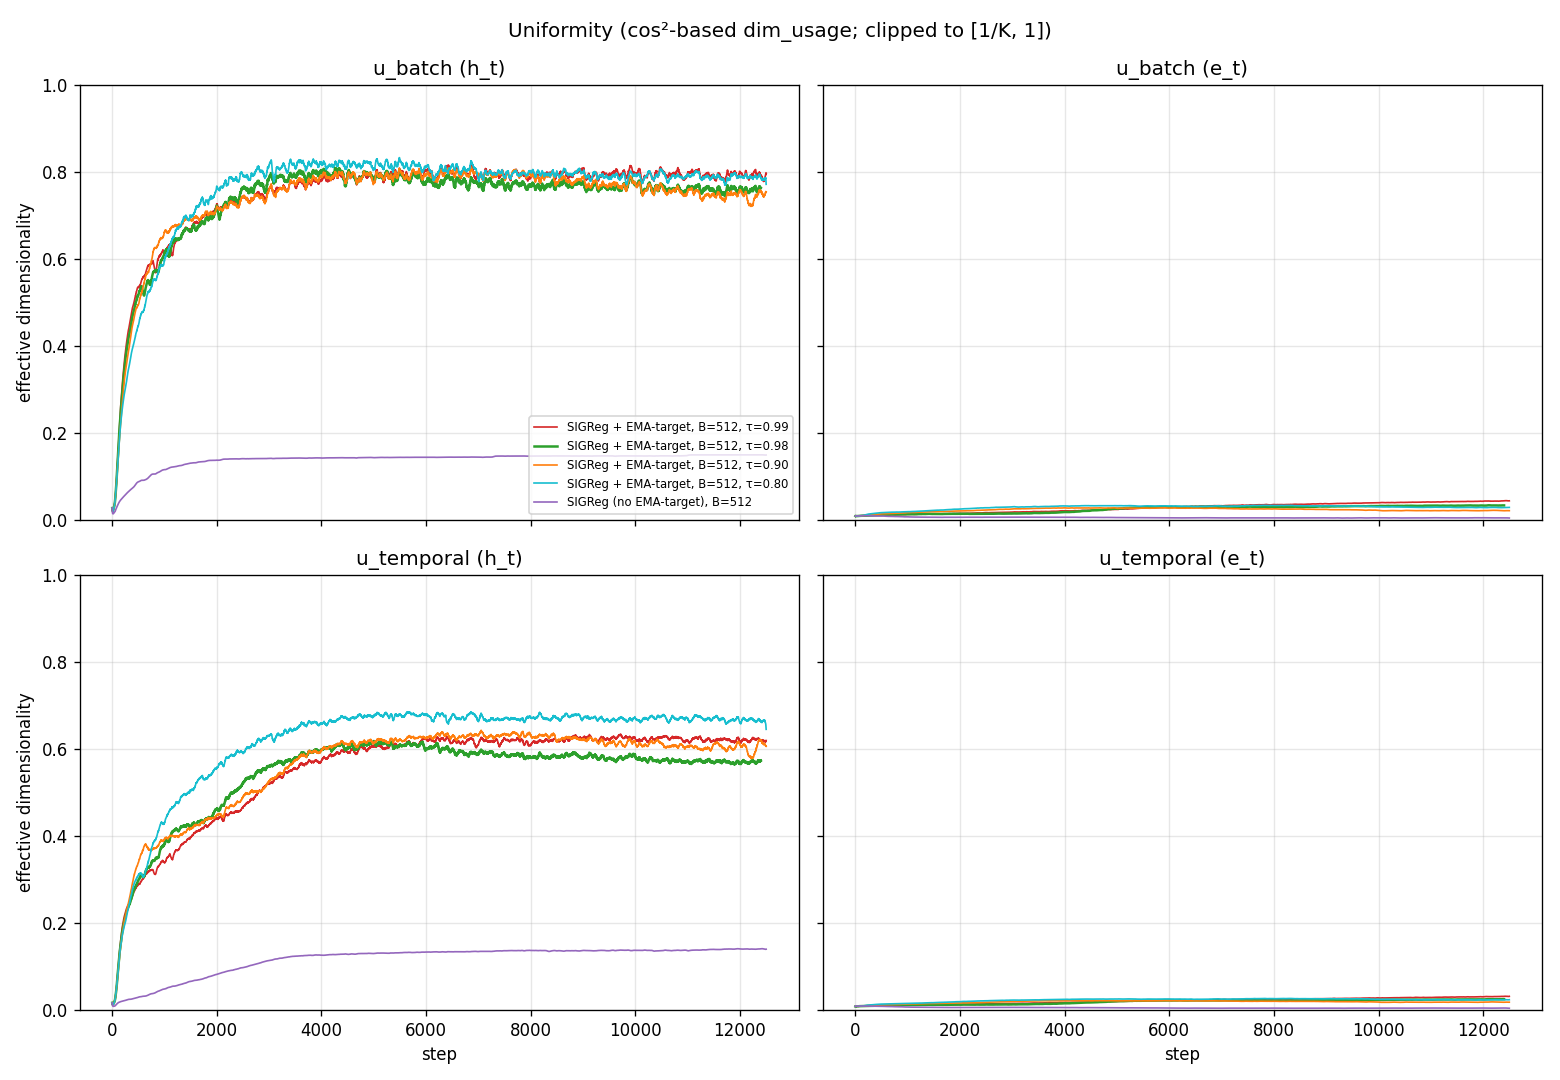
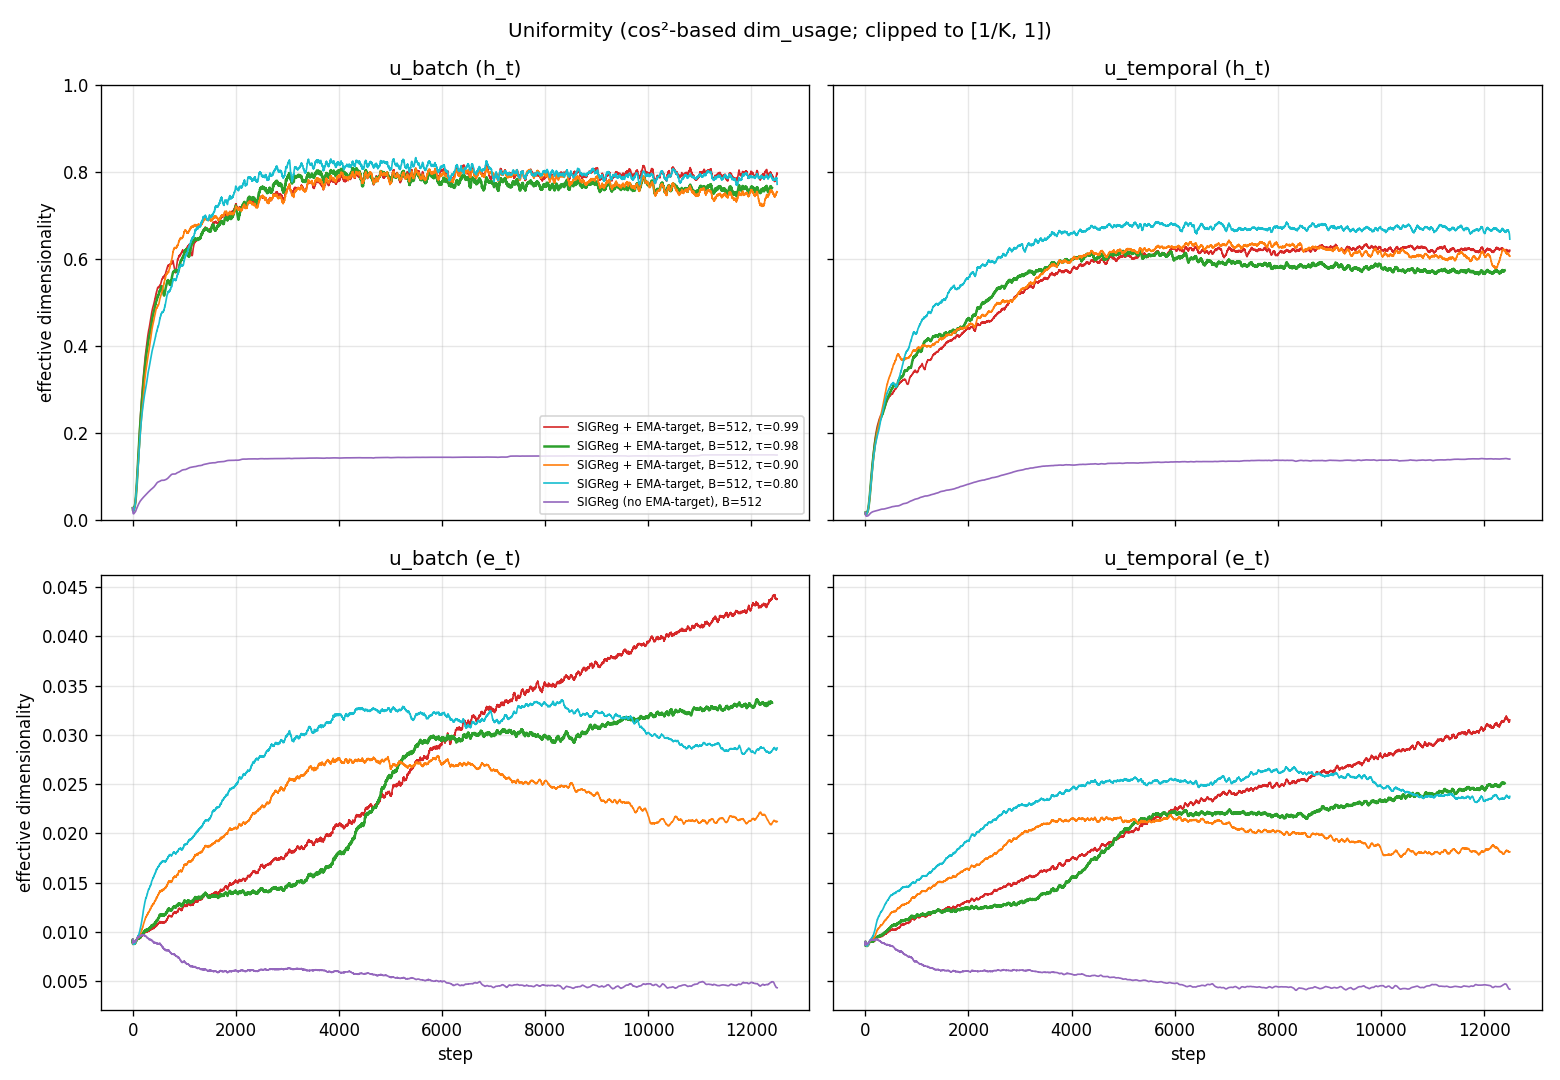
report(#357): uniformity layout — h_t row + e_t row, sharey per row

diff --git a/experiments/2026-06-20_lejepa_sigreg/scripts/build_report_tau098.py b/experiments/2026-06-20_lejepa_sigreg/scripts/build_report_tau098.py
@@ -175,7 +175,7 @@ def plot_uniformity(this_csv: Path, sigreg099_csv: Path | None,
                     noema_csv: Path | None,
                     tau090_csv: Path | None, tau080_csv: Path | None, out: Path):
     s = pd.read_csv(this_csv)
-    fig, axes = plt.subplots(2, 2, figsize=(13, 9), sharex=True, sharey=True)
+    fig, axes = plt.subplots(2, 2, figsize=(13, 9), sharex=True, sharey="row")
     arms = [
         ("sigreg_enc3_tau099", sigreg099_csv, 1.0),
         ("sigreg_enc3_tau098", this_csv, 1.5),
@@ -187,8 +187,8 @@ def plot_uniformity(this_csv: Path, sigreg099_csv: Path | None,
     ]
     panels = [
         (0, 0, "batch",    "",  "u_batch (h_t)"),
-        (0, 1, "batch",    "_e","u_batch (e_t)"),
-        (1, 0, "temporal", "",  "u_temporal (h_t)"),
+        (0, 1, "temporal", "",  "u_temporal (h_t)"),
+        (1, 0, "batch",    "_e","u_batch (e_t)"),
         (1, 1, "temporal", "_e","u_temporal (e_t)"),
     ]
     for r, c, kind, suffix, title in panels:
@@ -203,7 +203,8 @@ def plot_uniformity(this_csv: Path, sigreg099_csv: Path | None,
             ax.plot(d["step"], d[col].rolling(50, min_periods=1).mean(),
                     label=ARM_LABEL[arm_key], color=ARM_COLOR[arm_key], lw=lw)
         ax.set_title(title)
-        ax.set_ylim(0, 1)
+        if suffix == "":
+            ax.set_ylim(0, 1)
         ax.grid(alpha=0.3)
         if r == 1: ax.set_xlabel("step")
         if c == 0: ax.set_ylabel("effective dimensionality")
